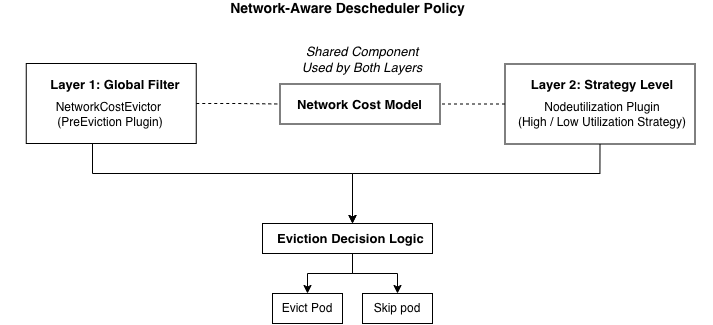
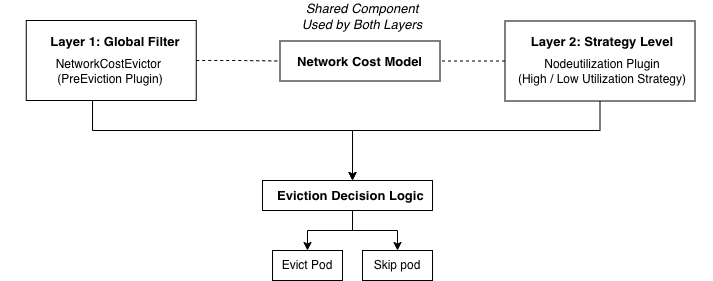
bab3: netaware add algorithm flow

diff --git a/src/01-body/bab3.tex b/src/01-body/bab3.tex
@@ -24,15 +24,15 @@ The system has a two-layers plugin architecture. The first layer is a global Pre
 \begin{figure}
 	\centering
 	\includegraphics[width=1.0\textwidth]{assets/pics/network-aware/sysoverview-diagram.png}
-	\caption{System overview diagram of the Network-Aware Descheduler Plugin}
+	\caption{Network-Aware plugin high-level design.}
 	\label{fig:netaware_sysoverview}
 \end{figure}
 
-The overall design of the Network-Aware Descheduler plugin is presented in Figure \ref{fig:netaware_sysoverview}. The system has two distinct independent components that can be deployed optionally in the descheduler design. 
+The overall design of the Network-Aware Descheduler plugin is presented in Figure \ref{fig:netaware_sysoverview}. The system has two distinct independent components that can be deployed optionally in the descheduler design. 
 
-The first component is a global PreEvictionFilter plugin, which is the NetworkCostEvictor. To avoid descheduler process resulting higher network costs, it compares eviction candidates current node with all ready nodes in the cluster. This ensures that the communication efficiency at the cluster level is not degraded due to pod migration. 
+The first component is a global PreEvictionFilter plugin, which is the NetworkCostEvictor. To avoid descheduler process resulting higher network costs, it compares eviction candidates current node with all ready nodes in the cluster. This ensures that the communication efficiency at the cluster level is not degraded due to pod migration. 
 
-The second plugin is integrated into node utilization based approaches, such as LowNodeUtilization and HighNodeUtilization. This strategic element performs network-aware filtering by assessing only the selected subset of nodes that are recognized as potential destinations (e.g. overutilize/underutilize node). This enables a more specific evaluation better aligned with the resource balancing goals of the descheduler. 
+The second plugin is integrated into node utilization based approaches, such as LowNodeUtilization and HighNodeUtilization. This strategic element performs network-aware filtering by assessing only the selected subset of nodes that are recognized as potential destinations (e.g. overutilize/underutilize node). This enables a more specific evaluation better aligned with the resource balancing goals of the descheduler. 
 
 Both components use a network cost model \ref{sec:netaware_costmodel} to estimate communication costs between pods. During the eviction process, the algorithm evaluates the cost of the pod's current placement in comparison to alternative placements. If the eviction does not maintain or improve the performance of the network, it is blocked. Otherwise, the eviction is permitted.
 
@@ -43,21 +43,21 @@ Both components use a network cost model \ref{sec:netaware_costmodel} to estimat
 \begin{figure}
 	\centering
 	\includegraphics[width=1.0\textwidth]{assets/pics/network-aware/sysarc-diagram.png}
-	\caption{Architecture design diagram of the Network-Aware Descheduler Plugin}
+	\caption{Network-Aware plugin architecture design.}
 	\label{fig:netaware_arcdesign}
 \end{figure}
 
 The detailed architecture of the Network-Aware Descheduler plugin is shown in Figure \ref{fig:netaware_arcdesign} based on the system overview described in Section \ref{sec:netaware_sysoverview}. The architecture enhances the descheduler eviction process with a common network-aware assessment scheme that is uniformly applied to the architectural levels. 
 
-To support this design, the system is structured around three core components. The first component is the network cost model abstracted into Cost Provider, which describes the calculation of the network distance between nodes. The abstraction enables topology-aware estimation based on node locality like region and zone, and latency-aware estimation based on real-time data collected via Prometheus. 
+To support this design, the system is structured around three core components. The first component is the network cost model abstracted into Cost Provider, which describes the calculation of the network distance between nodes. The abstraction enables topology-aware estimation based on node locality like region and zone, and latency-aware estimation based on real-time data collected via Prometheus. 
 
-The second component is the Pod Dependency Model, which enables the system to estimate the cost of communication considering interdependent workloads. This is done by a labeling method, where pods with the same configuration label (by default \textit{network-group}) value are grouped together and regarded as a close dependency in the cost calculation. 
+The second component is the Pod Dependency Model, which enables the system to estimate the cost of communication considering interdependent workloads. This is done by a labeling method, where pods with the same configuration label (by default \textit{network-group}) value are grouped together and regarded as a close dependency in the cost calculation. 
 
-The third component is Shared Network Cost Library, the centralized implementation for cost computation and the eviction decision maker. Both architectural layers use this library to ensure that the same logic is used to analyze network cost, regardless of the scope of evaluation. 
+The third component is Shared Network Cost Library, the centralized implementation for cost computation and the eviction decision maker. Both architectural layers use this library to ensure that the same logic is used to analyze network cost, regardless of the scope of evaluation. 
 
 The eviction decision making process is based on a common evaluation mechanism. The candidate nodes set is different between layers (from all available nodes to strategy selected subsets), but the same decision mechanism is utilized. 
 
-To balance between network latency and resource defragmentation goals, an eviction is allowed only if a given ratio of candidate nodes, which is specified by a configurable threshold, have a network cost lower or equal to ($\leq$) the current placement. Otherwise the eviction is blocked. This threshold-based solution improves the likelihood of the following scheduling decisions to reschedule pods on nodes that do not degrade the network efficiency and still allow for appropriate workload redistribution. 
+To balance between network latency and resource defragmentation goals, an eviction is allowed only if a given ratio of candidate nodes, which is specified by a configurable threshold, have a network cost lower or equal to ($\leq$) the current placement. Otherwise the eviction is blocked. This threshold-based solution improves the likelihood of the following scheduling decisions to reschedule pods on nodes that do not degrade the network efficiency and still allow for appropriate workload redistribution. 
 
 \subsection{Network Cost Model}
 \label{sec:netaware_costmodel}
@@ -68,9 +68,9 @@ To accommodate various deployment situations and accuracy levels, the Network Co
 %----------------------------------------------------------------------------- %%
 The topology-based cost model calculates the network cost based on the node locality information, e.g., zone and region information. This is based on the assumption that the network latency rises with the physical or logical distance of nodes. Thus, the connection between nodes of the same zone is considered cheaper than the communication across zones or regions. 
 
-The model assigns specified costs based on relative position of nodes. A typical arrangement defines three tiers of cost: same-zone, same-region, and cross-region connectivity. For example, the cost of communication between nodes in the same zone is the lowest while the cost of communication across areas is the largest. The model sets defaults cost numbers to reflect this hierarchy: 1 for same-zone, 5 for same-region, 10 for cross-region. These values can be customized through configuration. 
+The model assigns specified costs based on relative position of nodes. A typical arrangement defines three tiers of cost: same-zone, same-region, and cross-region connectivity. For example, the cost of communication between nodes in the same zone is the lowest while the cost of communication across areas is the largest. The model sets defaults cost numbers to reflect this hierarchy: 1 for same-zone, 5 for same-region, 10 for cross-region. These values can be customized through configuration. 
 
-The advantage of this methods is its low processing overhead and independence from external monitoring systems. However, it is based on the simplistic assumption that the network performance is directly proportional to the physical proximity. In practice, this assumption may not always hold, as network latency might be altered by dynamic factors such as node load, congestion, or infrastructure variations.  Nodes within the same zone can sometimes have higher latency than nodes in separate regions. 
+The advantage of this methods is its low processing overhead and independence from external monitoring systems. However, it is based on the simplistic assumption that the network performance is directly proportional to the physical proximity. In practice, this assumption may not always hold, as network latency might be altered by dynamic factors such as node load, congestion, or infrastructure variations.  Nodes within the same zone can sometimes have higher latency than nodes in separate regions. 
 
 However, the topology-based model is a useful baseline for network-aware scheduling when real-time latency information is not accessible or not needed.
 
@@ -84,11 +84,11 @@ To support this capability the system is integrated with a Prometheus based moni
 \begin{figure}
 	\centering
 	\includegraphics[width=1.0\textwidth]{assets/pics/network-aware/prometheus-scrape.png}
-	\caption{}
+	\caption{Prometheus scraping architecture for inter-node latency metrics via GoldenPinger DaemonSets.}
 	\label{fig:netaware_prometheusscrape}
 \end{figure}
 
-As seen in Figure \ref{fig:netaware_prometheusscrape}. In this architecture, Goldenpinger is employed as the probing tool to test the node-to-node latency across the cluster. Each node runs an instance of Goldenpinger, which actively probes other nodes and exposes the resulting latency measurements. Prometheus then scrapes these parameters on a regular basis and stores them as time-series data. This version uses Goldenpinger but any other tool that is able to collect latency data and expose it in a Prometheus compatible format can be used.
+As seen in Figure \ref{fig:netaware_prometheusscrape}. In this architecture, Goldenpinger is employed as the probing tool to test the node-to-node latency across the cluster. Each node runs an instance of Goldenpinger, which actively probes other nodes and exposes the resulting latency measurements. Prometheus then scrapes these parameters on a regular basis and stores them as time-series data. This version uses Goldenpinger but any other tool that is able to collect latency data and expose it in a Prometheus compatible format can be used.
 
 Besides the query description, the configuration has to define the mapping between metric labels and cluster nodes. In particular, the latency measurements are associated with the respective source and target node labels. This enables the system to create a delay matrix that specifies the communication cost between the nodes.
 
@@ -106,12 +106,48 @@ If any inconsistency is detected in the cost model configuration, the system per
 
 
 
-
 %----------------------------------------------------------------------------- %%
-\subsection{Eviction Decision Algorithm}
+\subsection{Eviction Decision Workflow and Algorithm}
 \label{sec:netaware_algorithm}
 %----------------------------------------------------------------------------- %%
+\begin{figure}
+	\centering
+	\includegraphics[width=0.3\textwidth]{assets/pics/network-aware/preevict-chaining.png}
+	\caption{Pre-eviction filter chaining.}
+	\label{fig:netaware_preevictchaining}
+\end{figure}
 
+The network-aware eviction decision workflow is implemented within the chaining of descheduler pre-eviction plugins. As shown in Figure \ref{fig:netaware_preevictchaining}, each candidate pod for eviction undergoes a chain of filtering processes before the actual eviction.
 
+The first stage is the built-in \textit{DefaultEvictor} plugin provided by the Kubernetes descheduler framework. This component evaluates several default eviction constraints such as pod state validation, scheduling constraints and node fit requirements to ensure that the pod is eligible for eviction \citep{k8s_descheduler_docs}. If any of these constraints is violated the eviction procedure is cancelled and the pod is skipped. Otherwise the eviction candidate continues to the next phase. 
 
+After passing the default pre-eviction filtering stage,the proposed Network-Aware Evictor plugin conducts an additional network-aware evaluation, as seen in Figure \ref{fig:netaware_preevictalgo}. This stage determines whether the eviction is expected to preserve or improve the efficiency of network connectivity in the cluster. 
 
+\begin{figure}
+	\centering
+	\includegraphics[width=0.3\textwidth]{assets/pics/network-aware/preevict-algorithm.png}
+	\caption{Network-Aware pre-eviction algorithm flow.}
+	\label{fig:netaware_preevictalgo}
+\end{figure}
+
+During the network-aware evaluation phase for each pod, the algorithm verifies whether the pod has the configured dependence label. If there is no dependency label then the eviction is instantly allowed since there is no communication dependency to be considered. Otherwise, the system finds all dependent pods under the same communication group, which is defined as pods with the same dependency label in different replicas or deployments. 
+
+It then computes the network cost between the candidate pod and all dependent pods. This computation is performed for both the current node and all candidate destination nodes. The pool of candidate nodes relies on the architectural layer in use: the global filtering layer analyses all ready nodes in the cluster, while the strategy-level layer evaluates only nodes selected by the balancing strategy (e.g. overutilized/underutilized nodes).
+
+The network cost calculation is formally stated in Equation (\ref{eq:networkcost}). Given a candidate pod \(P\) residing on node \(n\), then the entire communication cost is computed by the summation of network costs between node \(n\) and the nodes where all dependency pods \(d \in D\) are present.
+
+\begin{equation}
+	\func{Cost}{n, P} = \sum_{d \in D} \func{Network}{n, \text{Node}_{d}}
+	\label{eq:networkcost}
+\end{equation}
+
+After computing the network cost for the current node and all candidate nodes, the algorithm evaluates whether the eviction should be permitted using the threshold condition defined in Equation \ref{eq:networkthreshold}.
+
+\begin{equation}
+	{\text{Count}(\text{Cost}(a, P) \leq \text{Cost}(C, P)) } \geq {\text{TotalCandidates}} \cdot \text{MinBetterCandidatesPercent} 
+	\label{eq:networkthreshold}
+\end{equation}
+
+An eviction is allowed only if a sufficient number of candidate nodes provide a network cost lower than or equal to \(\leq\) the current placement cost. The required amount of candidate nodes is controlled by the configurable \textit{MinBetterCandidatesPercent} threshold, which defaults to 50\%. Otherwise the eviction is blocked.
+
+This threshold-based mechanism is designed to increases the probability that the Kubernetes scheduler will subsequently place the pod onto a node that preserves or improves network locality after eviction by requiring a sufficient number of candidate nodes that maintain or improve communication cost.